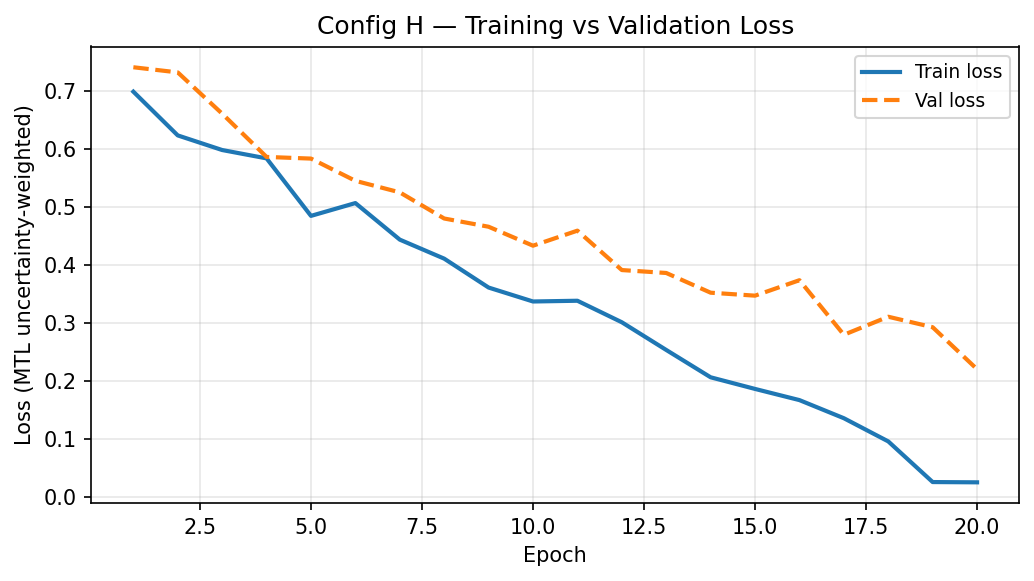
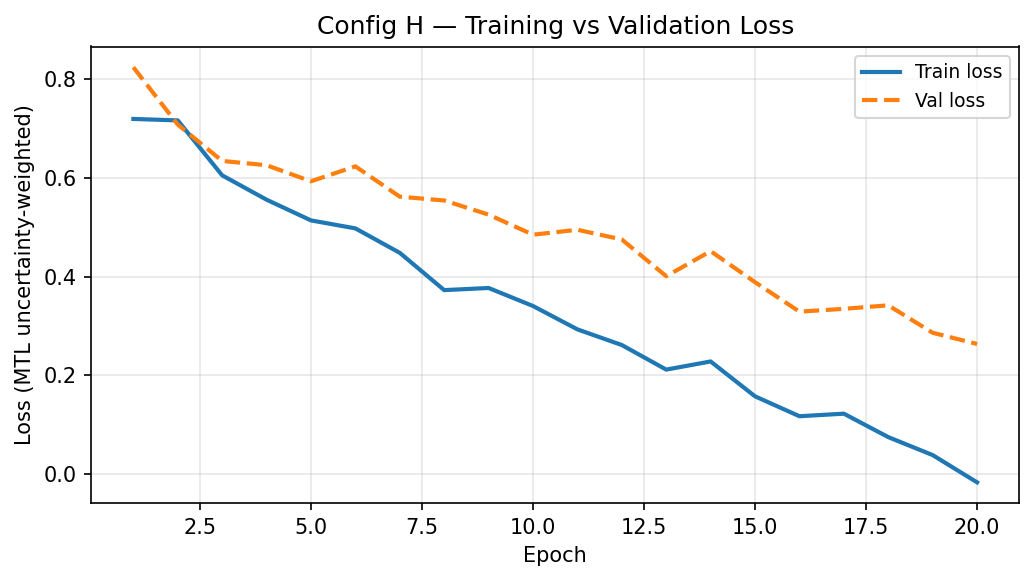
refactor: fixed weighted loss (0.3 MSE + 0.7 BCE), reduce units to 32, enable weight norm
- Replace uncertainty weighting (σ1/σ2) with fixed L = 0.3×MSE + 0.7×BCE
- Remove all σ1, σ2 trainable parameters from losses.py and wsmte.py
- Change lstm_units, gru_units, tcn_filters, shared_dense_units: 64 → 32
- Enable use_weight_norm=True in TCN
- Increase n_runs_ablation: 10 → 30 for all configs (A–F)
- Add 30-seed SEEDS list to config.py and propagate to trainer.py
- Change train/val split: 0.70/0.15 → 0.75/0.10 (test stays 0.15)
- Redefine ablation configs A–F with updated feature sets and PSO on F
- Update DECISIONS.md to reflect all above changes

diff --git a/src/models/wsmte.py b/src/models/wsmte.py
@@ -7,7 +7,7 @@ build_wsmte(config, use_pso=False, ablation_cfg=None)
 
 WSMTEModel subclasses tf.keras.Model with functional inputs/outputs so that:
   - model.layers exposes LSTM, GRU, TCN layers (required by tests)
-  - model.trainable_variables includes log_sigma1/log_sigma2 for dual-head
+  - Custom train_step applies fixed-weight MTL loss (0.3×MSE + 0.7×BCE)
   - Custom train_step / test_step compute the correct loss per head config
 """
 
@@ -16,21 +16,20 @@ import numpy as np
 
 from src.models.encoder import build_lstm_branch, build_gru_branch, build_tcn_branch
 from src.models.heads import build_regression_head, build_classification_head
-from src.models.losses import uncertainty_weighted_loss
+from src.models.losses import fixed_weighted_loss
 
 
 @tf.keras.utils.register_keras_serializable(package='src.models.wsmte')
 class WSMTEModel(tf.keras.Model):
 
     """
-    WSMTE model with optional uncertainty-weighted MTL loss.
+    WSMTE model with fixed-weight MTL loss (0.3 × MSE + 0.7 × BCE).
 
-    For dual-head configs (G, H):
-      - log_sigma1, log_sigma2 are trainable tf.Variable parameters
-      - Custom train_step / test_step apply uncertainty weighting
+    For dual-head configs (E, F):
+      - Custom train_step / test_step apply fixed weighting
 
-    For single-head configs (A–F):
-      - No sigma variables; custom train_step computes task loss directly
+    For single-head configs (A–D):
+      - Custom train_step computes task loss directly
       - class_weight support: pass sample_weight via model.set_class_weight()
 
     Initialised via the functional API (inputs= / outputs= kwargs to super()),
@@ -48,27 +47,8 @@ class WSMTEModel(tf.keras.Model):
         self.has_clf  = 'classification' in heads
         self.has_reg  = 'regression' in heads
 
-        # Uncertainty parameters (Kendall et al. CVPR 2018) — dual-head only
-        if self.has_both:
-            self.log_sigma1 = tf.Variable(
-                0.0, trainable=True, dtype=tf.float32, name='log_sigma1'
-            )
-            self.log_sigma2 = tf.Variable(
-                0.0, trainable=True, dtype=tf.float32, name='log_sigma2'
-            )
-
         # Optional per-class sample weights (set via set_class_weight)
         self._class_weight = None
-
-    # ── Variable tracking (Keras 3 requires explicit override) ────────────────
-
-    @property
-    def trainable_variables(self):
-        """Include log_sigma1/log_sigma2 in trainable_variables for Keras 3."""
-        base = super().trainable_variables
-        if self.has_both:
-            return list(base) + [self.log_sigma1, self.log_sigma2]
-        return base
 
     # ── Public API ────────────────────────────────────────────────────────────
 
@@ -92,9 +72,7 @@ class WSMTEModel(tf.keras.Model):
             bce = tf.reduce_mean(
                 tf.keras.losses.binary_crossentropy(y_clf, p_clf)
             )
-            return uncertainty_weighted_loss(
-                mse, bce, self.log_sigma1, self.log_sigma2
-            )
+            return fixed_weighted_loss(mse, bce)
 
         elif self.has_clf:
             y_clf = tf.reshape(tf.cast(y, tf.float32), [-1])

diff --git a/src/models/losses.py b/src/models/losses.py
@@ -1,34 +1,25 @@
 """
 src/models/losses.py
-Uncertainty-weighted multi-task loss (Kendall et al., CVPR 2018).
+Fixed-weight multi-task loss for WSMTE.
 
 Formula:
-  L = (exp(-log_sigma1)) * MSE  + log_sigma1
-    + (exp(-log_sigma2)) * BCE  + log_sigma2
+  L = 0.3 × MSE + 0.7 × BCE
 
-Where log_sigma1, log_sigma2 are trainable tf.Variable parameters
-initialized to 0.0 (i.e., sigma = exp(0) = 1.0).
-
-Reference: "Multi-Task Learning Using Uncertainty to Weigh Losses for
-           Scene Geometry and Semantics", Kendall et al., CVPR 2018.
+No trainable uncertainty parameters.
 """
 
 import tensorflow as tf
 
 
-def uncertainty_weighted_loss(mse, bce, log_sigma1, log_sigma2):
+def fixed_weighted_loss(mse, bce):
     """
-    Compute the combined MTL loss with learnable uncertainty weighting.
+    Compute the combined MTL loss with fixed weights.
 
     Args:
-        mse:        scalar tensor — mean squared error (regression task)
-        bce:        scalar tensor — binary cross-entropy (classification task)
-        log_sigma1: tf.Variable — log noise for regression (trainable)
-        log_sigma2: tf.Variable — log noise for classification (trainable)
+        mse: scalar tensor — mean squared error (regression task)
+        bce: scalar tensor — binary cross-entropy (classification task)
 
     Returns:
         scalar tensor — total loss
     """
-    reg_term = tf.exp(-log_sigma1) * mse  + log_sigma1
-    clf_term = tf.exp(-log_sigma2) * bce  + log_sigma2
-    return reg_term + clf_term
+    return 0.3 * mse + 0.7 * bce

diff --git a/src/training/trainer.py b/src/training/trainer.py
@@ -117,7 +117,7 @@ def train_multi_run(ablation_cfg, config_name, data, config, n_runs=None,
     if n_runs is None:
         n_runs = ablation_cfg['n_runs']
     if seeds is None:
-        seeds = list(range(n_runs))
+        seeds = config['SEEDS'][:n_runs]
     if results_path is None:
         results_path = config['ablation_results']
 

diff --git a/context files/DECISIONS.md b/context files/DECISIONS.md
@@ -105,22 +105,22 @@ If something seems improvable, note it as a comment but implement as specified.
 ## 4. Architecture Decisions
 
 ### Encoder Branches (all parallel, NOT sequential)
-- LSTM: units=64, activation=tanh, recurrent_activation=sigmoid,
+- LSTM: units=32, activation=tanh, recurrent_activation=sigmoid,
         dropout=0.2, recurrent_dropout=0.0, return_sequences=False
-- GRU:  units=64, activation=tanh, recurrent_activation=sigmoid,
+- GRU:  units=32, activation=tanh, recurrent_activation=sigmoid,
         dropout=0.2, recurrent_dropout=0.0, return_sequences=False
-- TCN:  filters=64, kernel_size=2, dilations=[1,2,4],
+- TCN:  filters=32, kernel_size=2, dilations=[1,2,4],
         padding=causal, activation=relu, dropout=0.2,
         use_skip_connections=True, use_batch_norm=False,
-        use_layer_norm=False, use_weight_norm=False
+        use_layer_norm=False, use_weight_norm=True
 
 ### Branch Merging
-- Configs A–G: simple concatenation → 192-dim vector
-- Config H only: PSO-weighted sum → w1×LSTM + w2×TCN + w3×GRU
+- Configs A–E: simple concatenation → 96-dim vector
+- Config F only: PSO-weighted sum → w1×LSTM + w2×TCN + w3×GRU
   where w1+w2+w3=1, weights found by PSO on validation set
 
 ### Shared Dense Layer
-- Dense(64, activation=relu)
+- Dense(32, activation=relu)
 - Dropout(0.2)
 
 ### Regression Head
@@ -134,12 +134,11 @@ If something seems improvable, note it as a comment but implement as specified.
 - Loss: BCE
 
 ### Combined Loss (MTL)
-- Uncertainty weighting: Kendall et al. CVPR 2018
-- Formula: L = (1/2σ₁²)×MSE + (1/2σ₂²)×BCE + log(σ₁) + log(σ₂)
-- σ₁ and σ₂ are trainable parameters
-- Do NOT use fixed alpha weighting
+- Fixed weighted combination
+- Formula: L = 0.3 × MSE + 0.7 × BCE
 - Do NOT use Focal loss
 - Do NOT use Huber loss
+- Do NOT use uncertainty (Kendall) weighting
 
 ### Excluded Architectures — Do NOT Add These
 - TKAN: no stable library, Kotekar's own contribution
@@ -152,7 +151,7 @@ If something seems improvable, note it as a comment but implement as specified.
 
 ## 5. Training Decisions
 
-- Split: 70/15/15 temporal, NO shuffling
+- Split: 75/10/15 temporal, NO shuffling
 - Optimizer: Adam, lr=0.001
 - Batch size: 32
 - Max epochs: 100
@@ -161,8 +160,8 @@ If something seems improvable, note it as a comment but implement as specified.
                 patience=7, min_lr=1e-6)
 - Dropout: 0.2 on all branches and shared dense
 - Class imbalance: apply class_weight to BCE if label ratio exceeds 60:40
-- Config G + H: 30 runs with different random seeds
-- Configs A–F: 10 runs with different random seeds
+- All configs A–F: 30 runs with different random seeds
+- Seeds: [23, 47, 0, 1, 2, 7, 13, 17, 21, 29, 31, 37, 42, 53, 61, 67, 71, 79, 83, 89, 97, 101, 113, 127, 131, 137, 149, 151, 157, 163]
 - Checkpoint: monitor val_loss for saving, log val_binary_accuracy separately
 
 ---
@@ -213,25 +212,19 @@ If something seems improvable, note it as a comment but implement as specified.
 
 ## 8. Ablation Study
 
-8 configs total. See ARCHITECTURE.md for full table.
-- Configs A–G: simple concatenation, 10 runs each
-- Config H: PSO weighting, 30 runs (final proposed model)
+6 configs total. See ARCHITECTURE.md for full table.
+- Configs A–E: simple concatenation, 30 runs each
+- Config F: PSO weighting, 30 runs (final proposed model)
 - All results saved to ablation_results.csv (one row per run)
 
-### Ablation Feature Design (LOCKED)
-Config A uses all technical features as baseline — NOT minimal features.
-This ensures sentiment contribution is isolated cleanly.
-
-| Config | Features | Purpose |
-|--------|----------|---------|
-| A | Close_d, Volume_d, RSI_d, MACD_d, BB_width_d, ROC_d | Technicals only — meaningful floor |
-| B | A + polarity_company + subjectivity | Company sentiment contribution |
-| C | B + polarity_market | Market sentiment contribution (Novelty 2) |
-| D | All 9 features | Full feature set single-task confirmation |
-| E | All 9 features, classification only | MTL ablation — no regression head |
-| F | All 9 features, regression only | MTL ablation — no classification head |
-| G | All 9 features, both heads, concat | Full WSMTE without PSO |
-| H | All 9 features, both heads, PSO | Final proposed model |
+| Config | Features | Heads | Merge | Purpose |
+|--------|----------|-------|-------|---------|
+| A | Close_d, High_d, Low_d, Open_d, Volume_d | classification | concat | Denoised OHLCV price-only floor |
+| B | Close_d, High_d, Low_d, Open_d, Volume_d + all sentiment | classification | concat | OHLCV + sentiment, no technicals |
+| C | Close_d, Volume_d, RSI_d, MACD_d, BB_width_d, ROC_d | classification | concat | Technical indicators only |
+| D | All 9 features | classification | concat | Full features, single-task |
+| E | All 9 features | both heads | concat | Full WSMTE without PSO |
+| F | All 9 features | both heads | PSO | Final proposed model |
 
 ---
 
